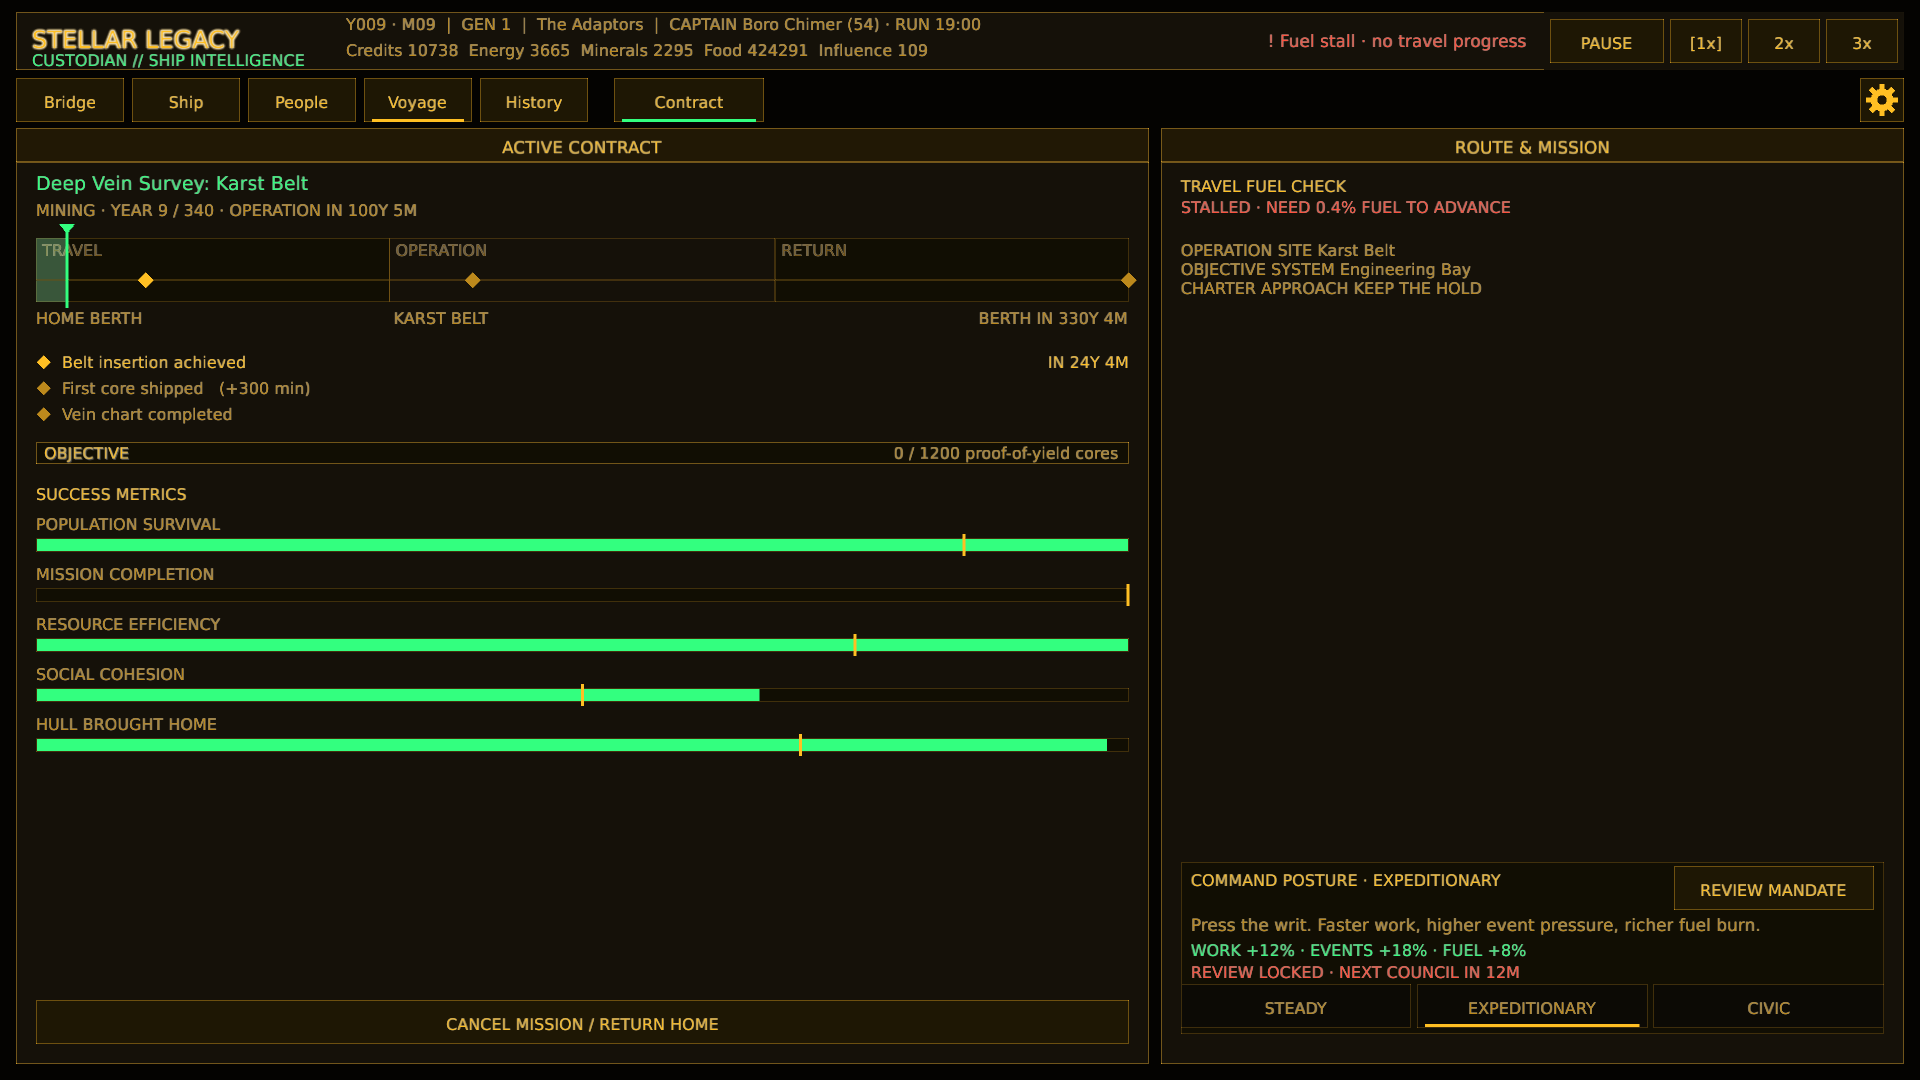
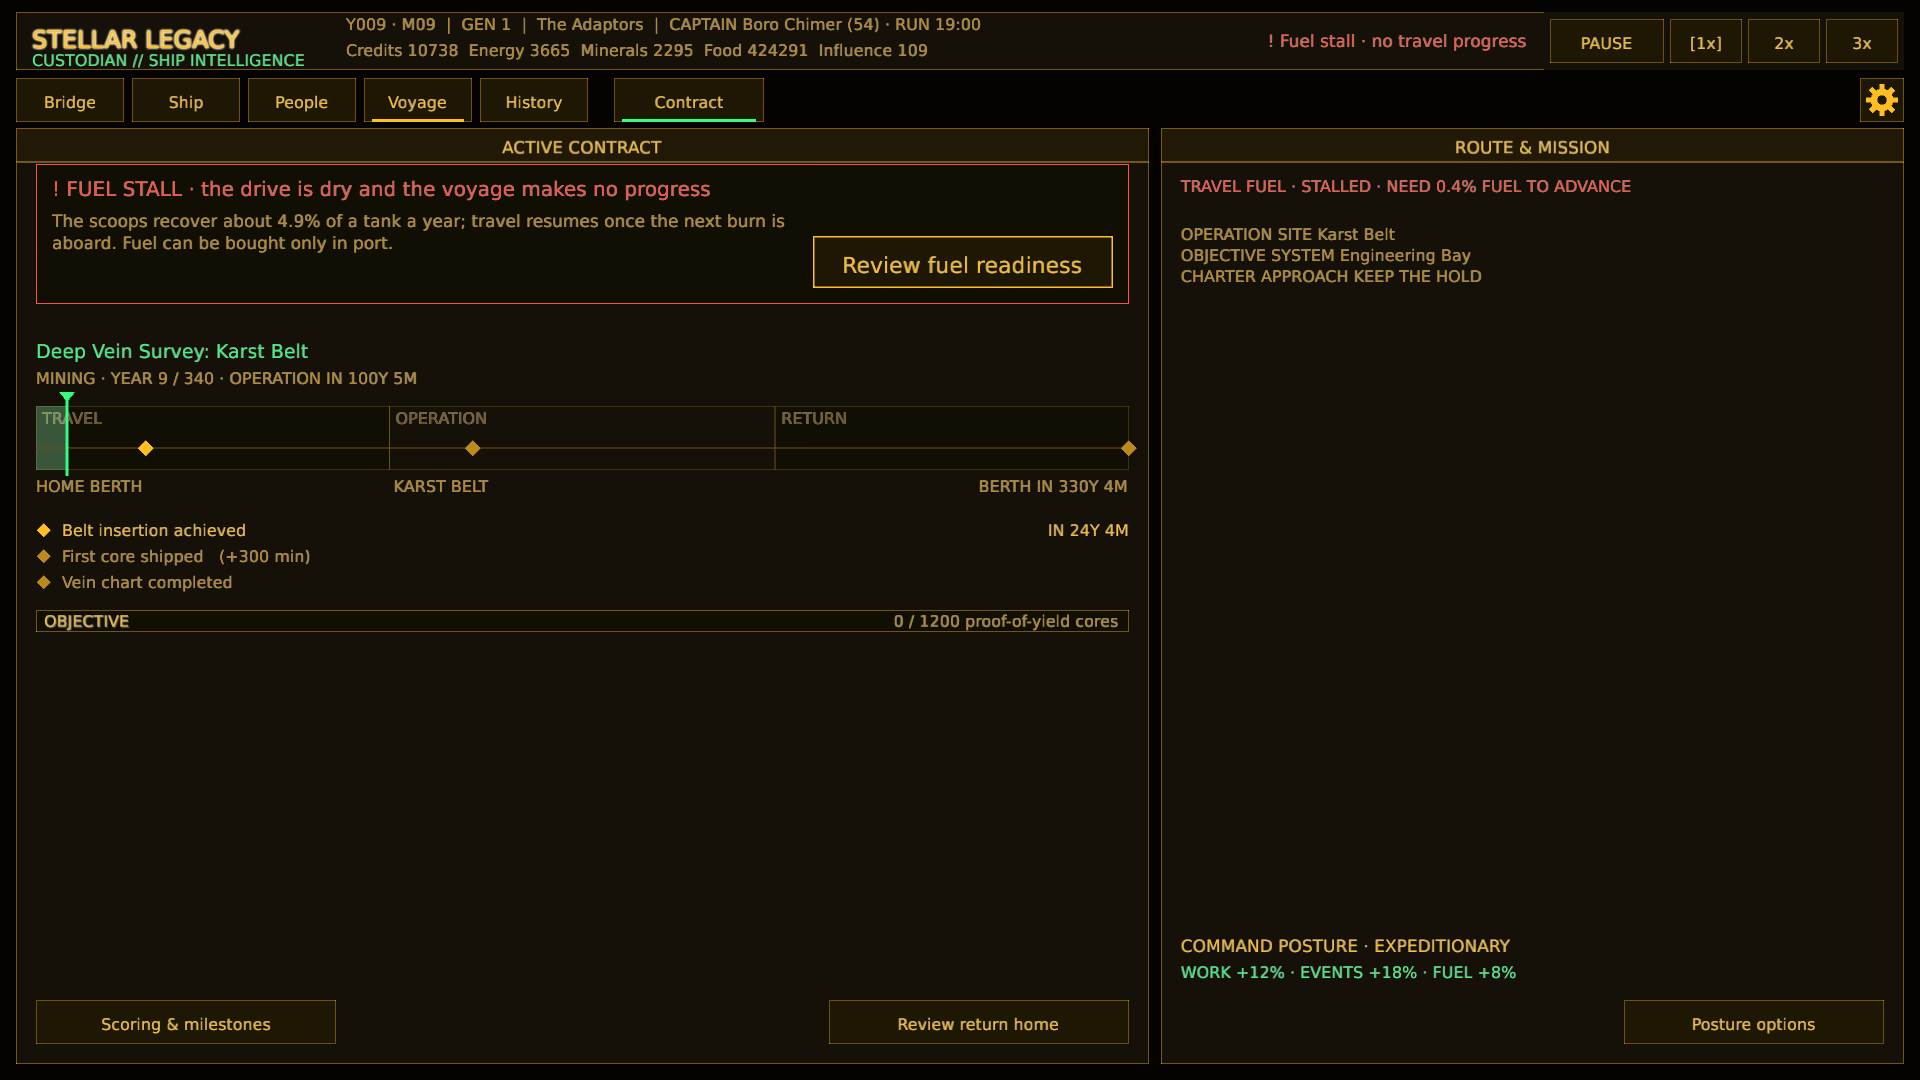
A stalled voyage says why it stopped before it shows the scorecard (Active contract focus)
The contract view gave its strongest emphasis to five bright success
metric bars and a full-width Cancel mission / Return home, while a real
fuel stall was one 13px line in the right panel. Route text and the
campaign outlook sat at 12px, and posture alternatives were always open.

A dry tank on a travel leg now opens the left panel with an alert block
(`contract_systems/obstacle.rs`): what stopped, the scoops' annual
recovery from the readiness model (or that there are none), port-only
refuelling, and a primary Review fuel readiness route to the Agenda.
Below it the track, upcoming milestones and objective lead. Reached
milestones collapse to a count, and the success metrics open under
Scoring & milestones. Review return home is a 300px secondary button
whose existing review carries the confirmation. On the right, the fuel
check is one 16px line, route and outlook text rise to 15-16px, and the
posture shows as a summary with alternatives under Posture options.

Formatting and strict all-target Clippy pass. The stalled contract was
recaptured at 1920x1080 and read back, plus the posture scene (now with
both disclosures open) outside the stable set. A calm contract with
reached milestones and the scoop-less stall wording have no capture.

diff --git a/src/ui/contract_systems/outlook.rs b/src/ui/contract_systems/outlook.rs
@@ -19,6 +19,26 @@ pub(super) fn mission_time(months: u32) -> String {
     }
 }
 
+/// The current posture in one line with its effects, for the calm contract
+/// view; alternatives open behind Posture options.
+fn draw_posture_summary(ctx: &GameplayCtx<'_>, rect: Rect) {
+    draw_ui_text_ex(
+        &format!("COMMAND POSTURE · {}", ctx.sim.command_posture.label()),
+        rect.x,
+        rect.y + 20.0,
+        TextStyle::new(17.0, term::primary()).params(),
+    );
+    let effects = crate::simulation::command::effect_summary(ctx.sim.command_posture);
+    if !effects.is_empty() {
+        draw_ui_text_ex(
+            &effects,
+            rect.x,
+            rect.y + 46.0,
+            TextStyle::new(16.0, term::accent()).params(),
+        );
+    }
+}
+
 pub(crate) fn draw_posture(
     ctx: &GameplayCtx<'_>,
     rect: Rect,
@@ -118,8 +138,8 @@ fn draw_campaign_outlook(contract: &ActiveContract, rect: Rect) {
     draw_ui_text_ex(
         "CAMPAIGN OUTLOOK",
         rect.x + 10.0,
-        rect.y + 18.0,
-        TextStyle::new(12.0, term::primary()).params(),
+        rect.y + 22.0,
+        TextStyle::new(16.0, term::primary()).params(),
     );
     for (index, beat) in upcoming.into_iter().enumerate() {
         let eta = beat.month_clock.saturating_sub(contract.months_elapsed);
@@ -131,8 +151,8 @@ fn draw_campaign_outlook(contract: &ActiveContract, rect: Rect) {
                 beat.family.to_uppercase()
             ),
             rect.x + 10.0,
-            rect.y + 43.0 + index as f32 * 22.0,
-            TextStyle::new(12.0, term::dim()).params(),
+            rect.y + 50.0 + index as f32 * 26.0,
+            TextStyle::new(15.0, term::dim()).params(),
         );
     }
 }
@@ -185,18 +205,13 @@ pub(super) fn draw(
     content.y += 24.0;
     content.h -= 24.0;
     let (clock_status, clock_stalled) = super::mission_clock_status(ctx.sim, ctx.data);
+    // The stall itself leads the left panel; here the check is one quiet line.
     draw_ui_text_ex(
-        "TRAVEL FUEL CHECK",
+        &format!("TRAVEL FUEL · {clock_status}"),
         content.x,
         content.y + 20.0,
-        TextStyle::new(14.0, term::primary()).params(),
-    );
-    draw_ui_text_ex(
-        &clock_status,
-        content.x,
-        content.y + 41.0,
         TextStyle::new(
-            13.0,
+            16.0,
             if clock_stalled {
                 term::alert()
             } else {
@@ -209,21 +224,47 @@ pub(super) fn draw(
     draw_text_block(
         &route,
         content.x,
-        content.y + 68.0,
+        content.y + 52.0,
         content.w,
-        100.0,
-        12.0,
-        3.0,
+        130.0,
+        16.0,
+        5.0,
         term::dim(),
     );
     draw_campaign_outlook(
         contract,
-        Rect::new(content.x, content.y + 180.0, content.w, 102.0),
+        Rect::new(content.x, content.y + 196.0, content.w, 128.0),
     );
-    draw_posture(
-        ctx,
-        Rect::new(content.x, content.bottom() - 182.0, content.w, 172.0),
+    let options = ctx.presentation.posture_options.get();
+    let toggle = Rect::new(
+        content.right() - 260.0,
+        content.bottom() - 44.0,
+        260.0,
+        44.0,
+    );
+    if options {
+        draw_posture(
+            ctx,
+            Rect::new(content.x, content.bottom() - 238.0, content.w, 180.0),
+            pointer,
+            actions,
+        );
+    } else {
+        draw_posture_summary(
+            ctx,
+            Rect::new(content.x, content.bottom() - 112.0, content.w, 60.0),
+        );
+    }
+    if term_button(
+        toggle,
+        if options {
+            "Hide posture options"
+        } else {
+            "Posture options"
+        },
+        true,
         pointer,
-        actions,
-    );
+    ) {
+        ctx.presentation.posture_options.set(!options);
+    }
 }

diff --git a/src/ui/contract_systems/track.rs b/src/ui/contract_systems/track.rs
@@ -16,7 +16,9 @@ use macroquad_toolkit::ui::draw_ui_text_ex;
 const TRACK_H: f32 = 64.0;
 const METRIC_STRIDE: f32 = 50.0;
 
-pub(super) fn draw(contract: &ActiveContract, operation_site: &str, content: Rect) {
+/// `detail` discloses reached milestones and the success metrics; without it
+/// the view keeps to route, objective and the milestones still ahead.
+pub(super) fn draw(contract: &ActiveContract, operation_site: &str, content: Rect, detail: bool) {
     let mut y = content.y + 42.0;
     draw_ui_text_ex(
         &contract.name,
@@ -50,7 +52,7 @@ pub(super) fn draw(contract: &ActiveContract, operation_site: &str, content: Rec
     let track = Rect::new(content.x, y, content.w, TRACK_H);
     draw_track(contract, track);
     y = draw_places(contract, operation_site, track) + 18.0;
-    y = draw_milestones(contract, content, y) + 22.0;
+    y = draw_milestones(contract, content, y, detail) + 22.0;
     term_bar(
         Rect::new(content.x, y, content.w, 22.0),
         contract.objective_fraction(),
@@ -61,7 +63,9 @@ pub(super) fn draw(contract: &ActiveContract, operation_site: &str, content: Rec
             contract.objective_progress, contract.objective_target, contract.objective_unit
         ),
     );
-    draw_metrics(contract, content, y + 58.0);
+    if detail {
+        draw_metrics(contract, content, y + 58.0);
+    }
 }
 
 /// Phase bands with the elapsed span washed in, the ship as a bright mast at
@@ -154,10 +158,28 @@ fn draw_places(contract: &ActiveContract, operation_site: &str, track: Rect) -> 
 
 /// One line per milestone: its diamond, name and reward, and on the right
 /// either REACHED or the mission time until it.
-fn draw_milestones(contract: &ActiveContract, content: Rect, mut y: f32) -> f32 {
+fn draw_milestones(contract: &ActiveContract, content: Rect, mut y: f32, detail: bool) -> f32 {
     // Only the next milestone carries a countdown; later ones wait their turn.
     let next = contract.next_milestone_eta();
-    for milestone in &contract.milestones {
+    let reached = contract.milestones.iter().filter(|m| m.reached).count();
+    if !detail && reached > 0 {
+        y += 26.0;
+        chart::marker(vec2(content.x + 8.0, y - 6.0), 7.0, term::accent());
+        draw_ui_text_ex(
+            &format!(
+                "{reached} milestone{} reached",
+                if reached == 1 { "" } else { "s" }
+            ),
+            content.x + 26.0,
+            y,
+            TextStyle::new(16.0, term::accent()).params(),
+        );
+    }
+    for milestone in contract
+        .milestones
+        .iter()
+        .filter(|milestone| detail || !milestone.reached)
+    {
         y += 26.0;
         let (color, status) = if milestone.reached {
             (term::accent(), "REACHED".to_owned())

diff --git a/src/ui/contract_systems.rs b/src/ui/contract_systems.rs
@@ -9,6 +9,7 @@ use macroquad::prelude::*;
 use macroquad_toolkit::prelude::*;
 use macroquad_toolkit::ui::{draw_ui_text_ex, is_fully_visible, measure_ui_text, RectExt};
 
+mod obstacle;
 pub(crate) mod outlook;
 mod track;
 
@@ -101,14 +102,30 @@ fn draw_active(ctx: &GameplayCtx<'_>, area: Rect, pointer: Pointer, actions: &mu
     let left = Rect::new(area.x, area.y, area.w * 0.6, area.h);
     let right = Rect::new(left.right() + 12.0, area.y, area.w - left.w - 12.0, area.h);
     term_panel(left, Some("ACTIVE CONTRACT"));
-    let content = left.inset(20.0);
+    let mut content = left.inset(20.0);
+    // A stall is the obstacle: it leads, ahead of the progress it is blocking.
+    if mission_clock_status(ctx.sim, ctx.data).1 {
+        obstacle::draw_fuel_stall(ctx, content, pointer, actions);
+        content.y += obstacle::HEIGHT;
+        content.h -= obstacle::HEIGHT;
+    }
     let site = ctx
         .data
         .contracts
         .get(&contract.template_id)
         .map(|template| template.operation_site())
         .unwrap_or_else(|| contract.name.clone());
-    track::draw(contract, &site, content);
+    let detail = ctx.presentation.contract_detail.get();
+    track::draw(contract, &site, content, detail);
+    let toggle = Rect::new(content.x, content.bottom() - 44.0, 300.0, 44.0);
+    let toggle_label = if detail {
+        "Hide scoring"
+    } else {
+        "Scoring & milestones"
+    };
+    if term_button(toggle, toggle_label, true, pointer) {
+        ctx.presentation.contract_detail.set(!detail);
+    }
     draw_return_button(ctx, content, pointer, actions);
     outlook::draw(ctx, right, pointer, actions);
 }
@@ -120,13 +137,19 @@ fn draw_return_button(
     actions: &mut Vec<UiAction>,
 ) {
     let underway = crate::simulation::contract::can_return_home(ctx.sim);
-    let abort = Rect::new(content.x, content.bottom() - 44.0, content.w, 44.0);
+    // Secondary: the confirmation review carries the consequences.
+    let abort = Rect::new(
+        content.right() - 300.0,
+        content.bottom() - 44.0,
+        300.0,
+        44.0,
+    );
     if underway {
-        if term_button(abort, "CANCEL MISSION / RETURN HOME", true, pointer) {
+        if term_button(abort, "Review return home", true, pointer) {
             actions.push(UiAction::ReviewReturnHome);
         }
     } else {
-        term_button(abort, "— HOMEBOUND —", false, pointer);
+        term_button(abort, "Homebound", false, pointer);
     }
 }
 

diff --git a/src/ui/contract_systems/obstacle.rs b/src/ui/contract_systems/obstacle.rs
@@ -1,0 +1,61 @@
+//! The current obstacle on the active voyage. A dry tank on a travel leg stops
+//! all progress, so it leads the contract view with why progress stopped and
+//! the route to recovery, ahead of the progress track.
+
+use crate::ui::{term, term_button_primary, GameplayCtx, UiAction};
+use macroquad::prelude::*;
+use macroquad_toolkit::prelude::*;
+use macroquad_toolkit::ui::{draw_text_block, draw_ui_text_ex};
+
+/// Height the obstacle block takes from the top of the panel content.
+pub(super) const HEIGHT: f32 = 168.0;
+
+pub(super) fn draw_fuel_stall(
+    ctx: &GameplayCtx<'_>,
+    content: Rect,
+    pointer: Pointer,
+    actions: &mut Vec<UiAction>,
+) {
+    let rect = Rect::new(content.x, content.y + 16.0, content.w, HEIGHT - 28.0);
+    draw_surface(
+        rect,
+        &SurfaceStyle::new(term::surface_inset()).with_border(2.0, term::alert()),
+    );
+    draw_ui_text_ex(
+        "! FUEL STALL · the drive is dry and the voyage makes no progress",
+        rect.x + 16.0,
+        rect.y + 32.0,
+        TextStyle::new(20.0, term::alert()).params(),
+    );
+    let scoop = crate::simulation::readiness::forecast(ctx.sim, ctx.data)
+        .fuel
+        .annual_scoop;
+    let recovery = if scoop > 0.0 {
+        format!(
+            "The scoops recover about {:.1}% of a tank a year; travel resumes once the next burn is aboard. Fuel can be bought only in port.",
+            scoop * 100.0
+        )
+    } else {
+        "This drive has no scoops, and fuel can be bought only in port. Recovery depends on the Agenda's fuel readiness and what the voyage brings.".to_owned()
+    };
+    let button_w = 300.0;
+    draw_text_block(
+        &recovery,
+        rect.x + 16.0,
+        rect.y + 46.0,
+        rect.w - button_w - 48.0,
+        rect.h - 54.0,
+        17.0,
+        5.0,
+        term::dim(),
+    );
+    let button = Rect::new(
+        rect.right() - button_w - 16.0,
+        rect.bottom() - 68.0,
+        button_w,
+        52.0,
+    );
+    if term_button_primary(button, "Review fuel readiness", true, pointer) {
+        actions.push(UiAction::SelectScreen(crate::state::Screen::Agenda));
+    }
+}

diff --git a/src/game/capture_scenes/routes.rs b/src/game/capture_scenes/routes.rs
@@ -54,7 +54,13 @@ pub(super) fn capture(game: &mut Game, scene: &str) {
         | "tutorial_complete"
         | "tutorial_navigation" => game.capture_prep(scene),
         "drydock" => game.capture_drydock(),
-        "contract_active" | "posture" => game.capture_contract_active(),
+        "contract_active" | "posture" => {
+            // "posture" opens the contract view's scoring and posture options.
+            let open = scene == "posture";
+            game.presentation.contract_detail.set(open);
+            game.presentation.posture_options.set(open);
+            game.capture_contract_active()
+        }
         "authority_review" => game.capture_authority_review(),
         "dilemma" => game.capture_dilemma(),
         "dilemma_combat" => game.capture_dilemma_combat(),

diff --git a/src/ui/presentation.rs b/src/ui/presentation.rs
@@ -23,6 +23,10 @@ pub struct Presentation {
     pub selected_agenda: Cell<usize>,
     pub utilities: Cell<bool>,
     pub instruments: Cell<bool>,
+    /// The contract view discloses scoring and reached milestones.
+    pub contract_detail: Cell<bool>,
+    /// The contract view discloses posture alternatives.
+    pub posture_options: Cell<bool>,
     /// The refit preview is enlarged into a full labelled schematic.
     pub ship_preview_expanded: Cell<bool>,
     pub event_key: std::cell::RefCell<String>,

diff --git a/TODO.md b/TODO.md
@@ -33,24 +33,6 @@ display-size preference. Every task below is designed, captured and reviewed at
 Ordered by player impact and dependencies. The contract is the screen briefs
 in `docs/gdd.md` §9.1; UI-02–04 address composition and core decisions before UI-05–07 refine inspection.
 
-- [ ] **UI-07 — Focus the active voyage on progress and the current obstacle.**
-  **Scope/files:** Voyage/Contract during travel, operation, fuel stall and return;
-  `src/ui/contract_systems.rs::{draw_active,draw_contract_progress,draw_contract_milestones,draw_return_button}`,
-  `src/ui/contract_systems/outlook.rs`.
-  **Observed:** `ui_contract_active.png` devotes most emphasis to bright success
-  metric bars and a full-width Cancel mission / Return home control. A real
-  fuel stall appears as a small text row. Phase/milestones repeat across the
-  two panels; outlook and posture add nested borders and small prose.
-  **Change:** Make route/phase, objective and next milestone the dominant
-  summary. Promote a current stall to an actionable obstacle with its recovery
-  route. Disclose scoring weights, completed milestones, locked approach effects
-  and posture alternatives on demand. Remove the empty outlook box and repeated
-  phase facts. Keep a secondary Review return home action with its confirmation.
-  **Acceptance:** A stalled player first sees why progress stopped and where to
-  recover. A calm player sees mission progress.
-  **Check:** Fuel stall with/without scoop recovery, calm operation, reached
-  milestones and return.
-
 ### Further inspection required
 
 - [ ] **UI-08 — Review the revised hierarchy in play and in dense states.**

diff --git a/docs/gdd.md b/docs/gdd.md
@@ -366,6 +366,11 @@ temporary clock hold; the selected time speed is preserved.
 The posture comparison identifies the current policy, explains the 100%
 baseline and annual social tradeoffs, and shows months until another proposal
 is available. The current policy cannot be proposed again.
+The active contract leads with route, phase, objective and the milestones still
+ahead. A fuel stall replaces that lead with an obstacle block naming annual
+scoop recovery and a Review fuel readiness route to the Agenda. Success metrics
+and reached milestones open under Scoring & milestones, posture alternatives
+under Posture options, and Review return home is a secondary action.
 The voyage report exposes the shared travel fuel check. A fuel stall
 explains current annual scoop recovery or its absence, port-only refuelling,
 and provides a visible link to Agenda readiness. Fuel readiness is distinct
